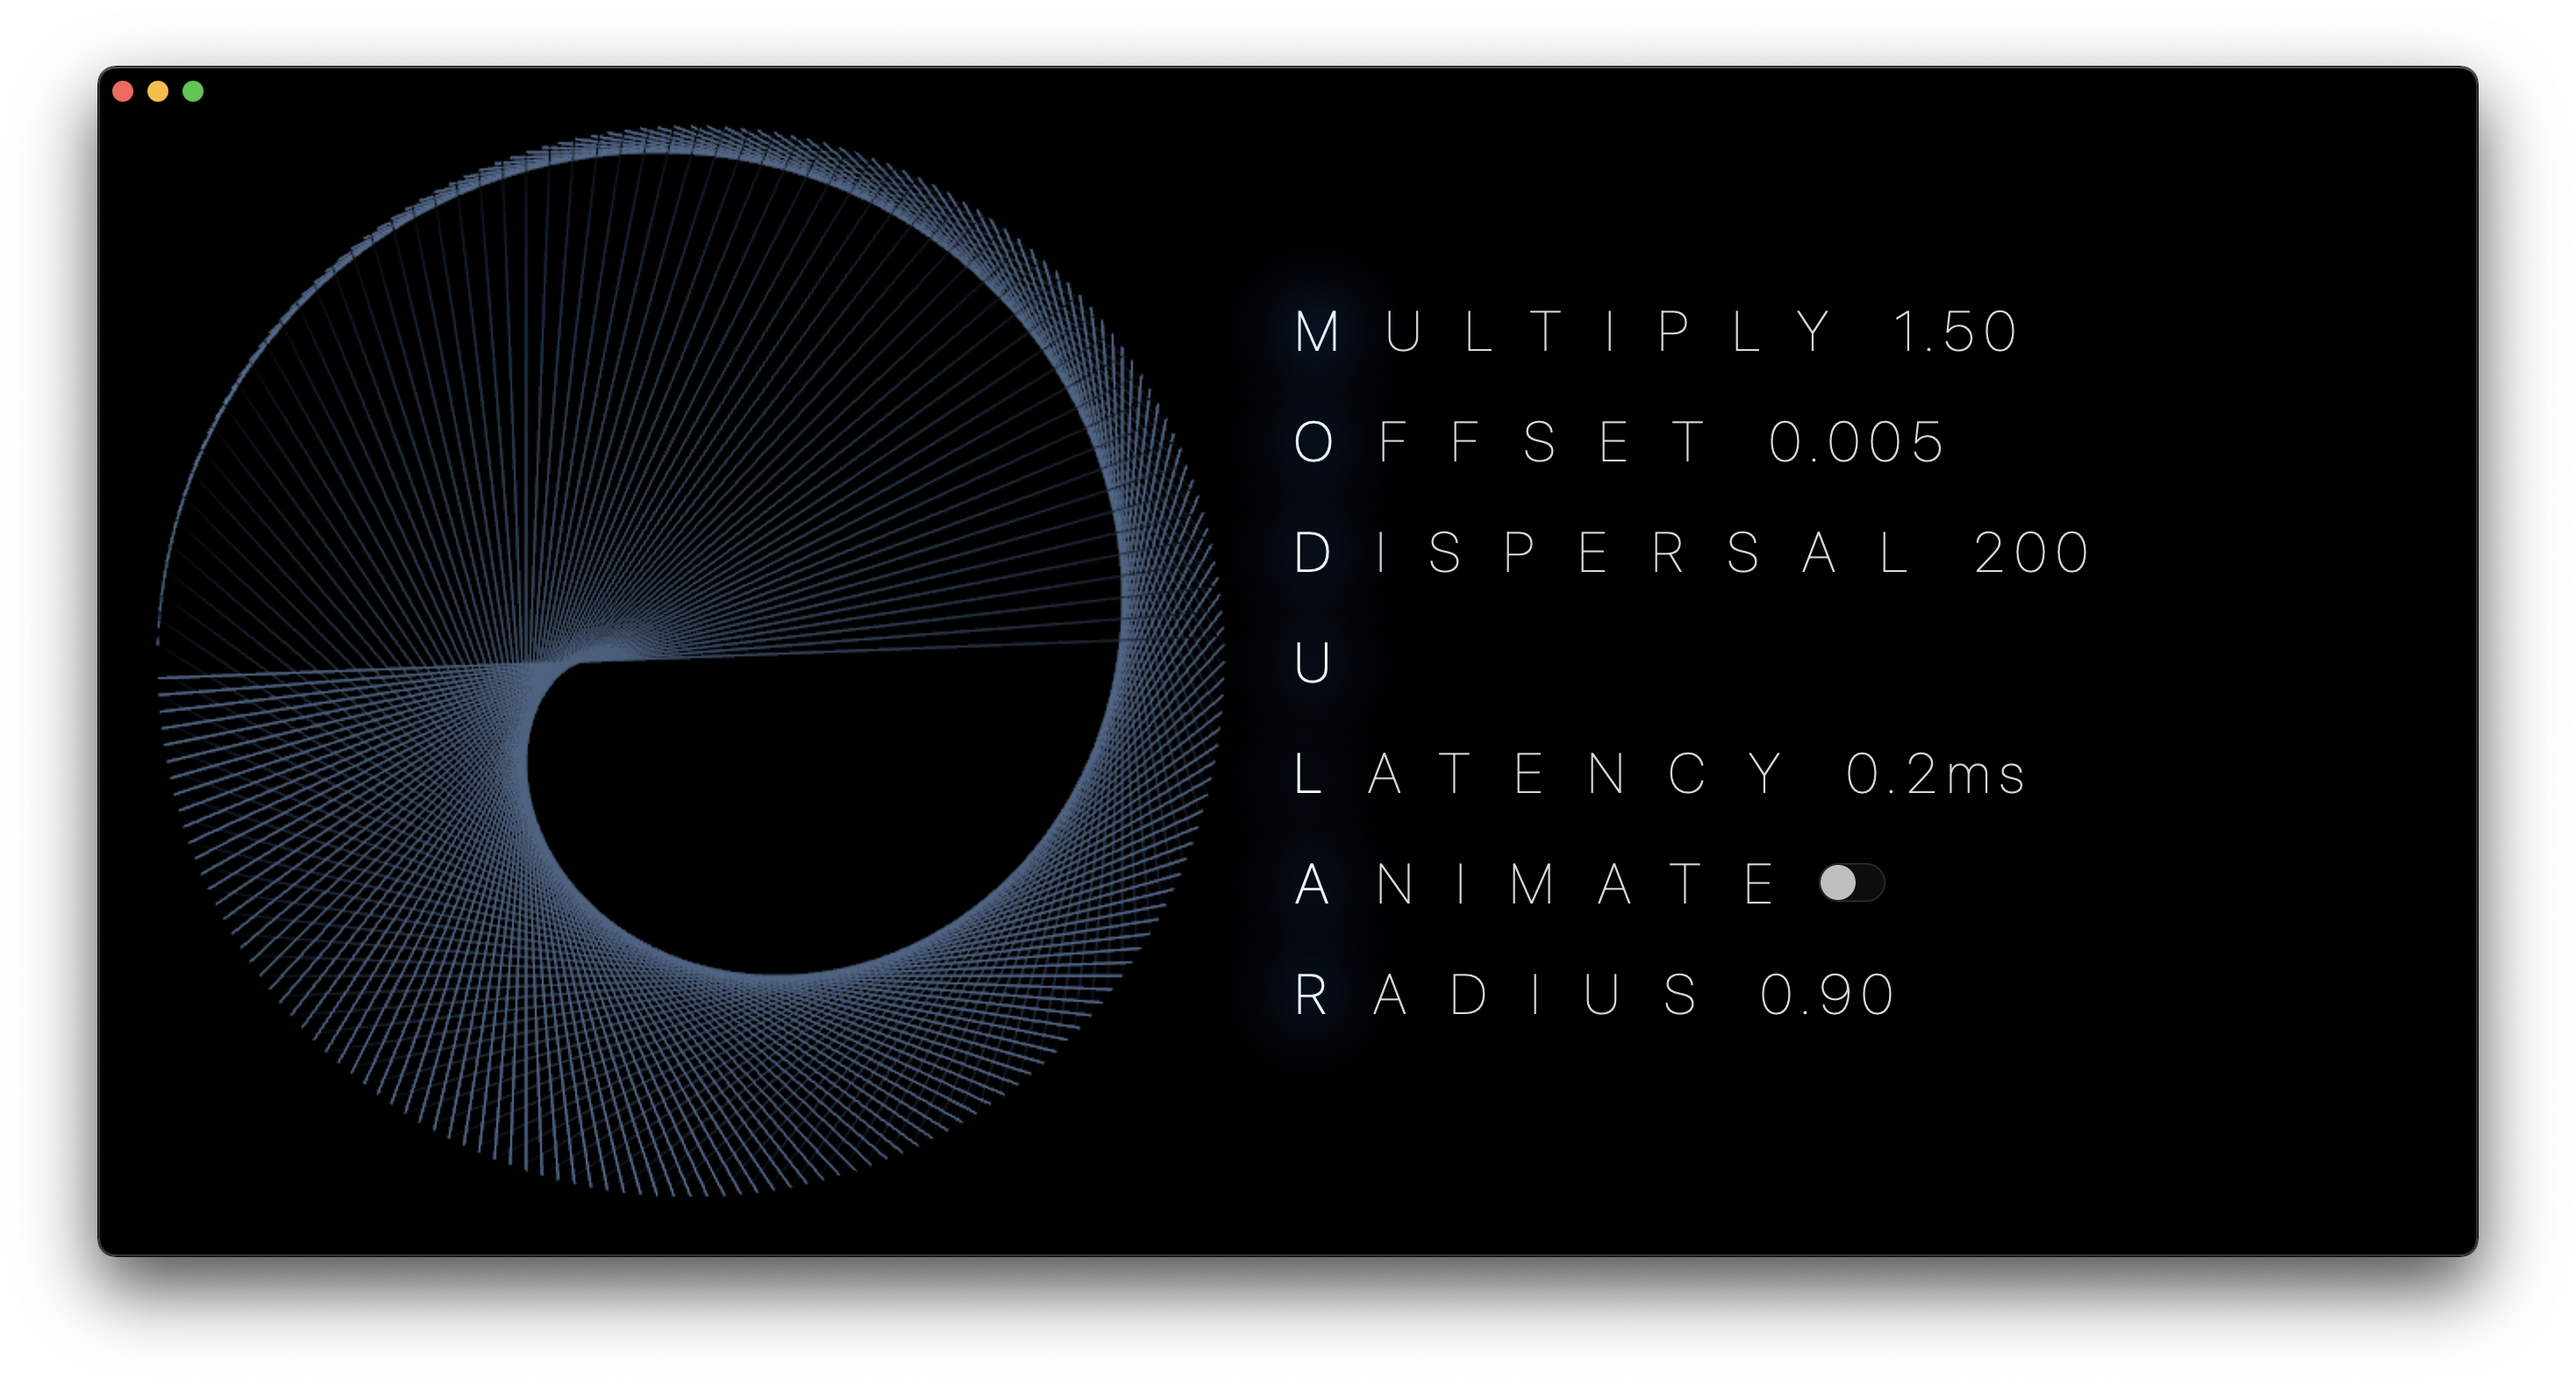
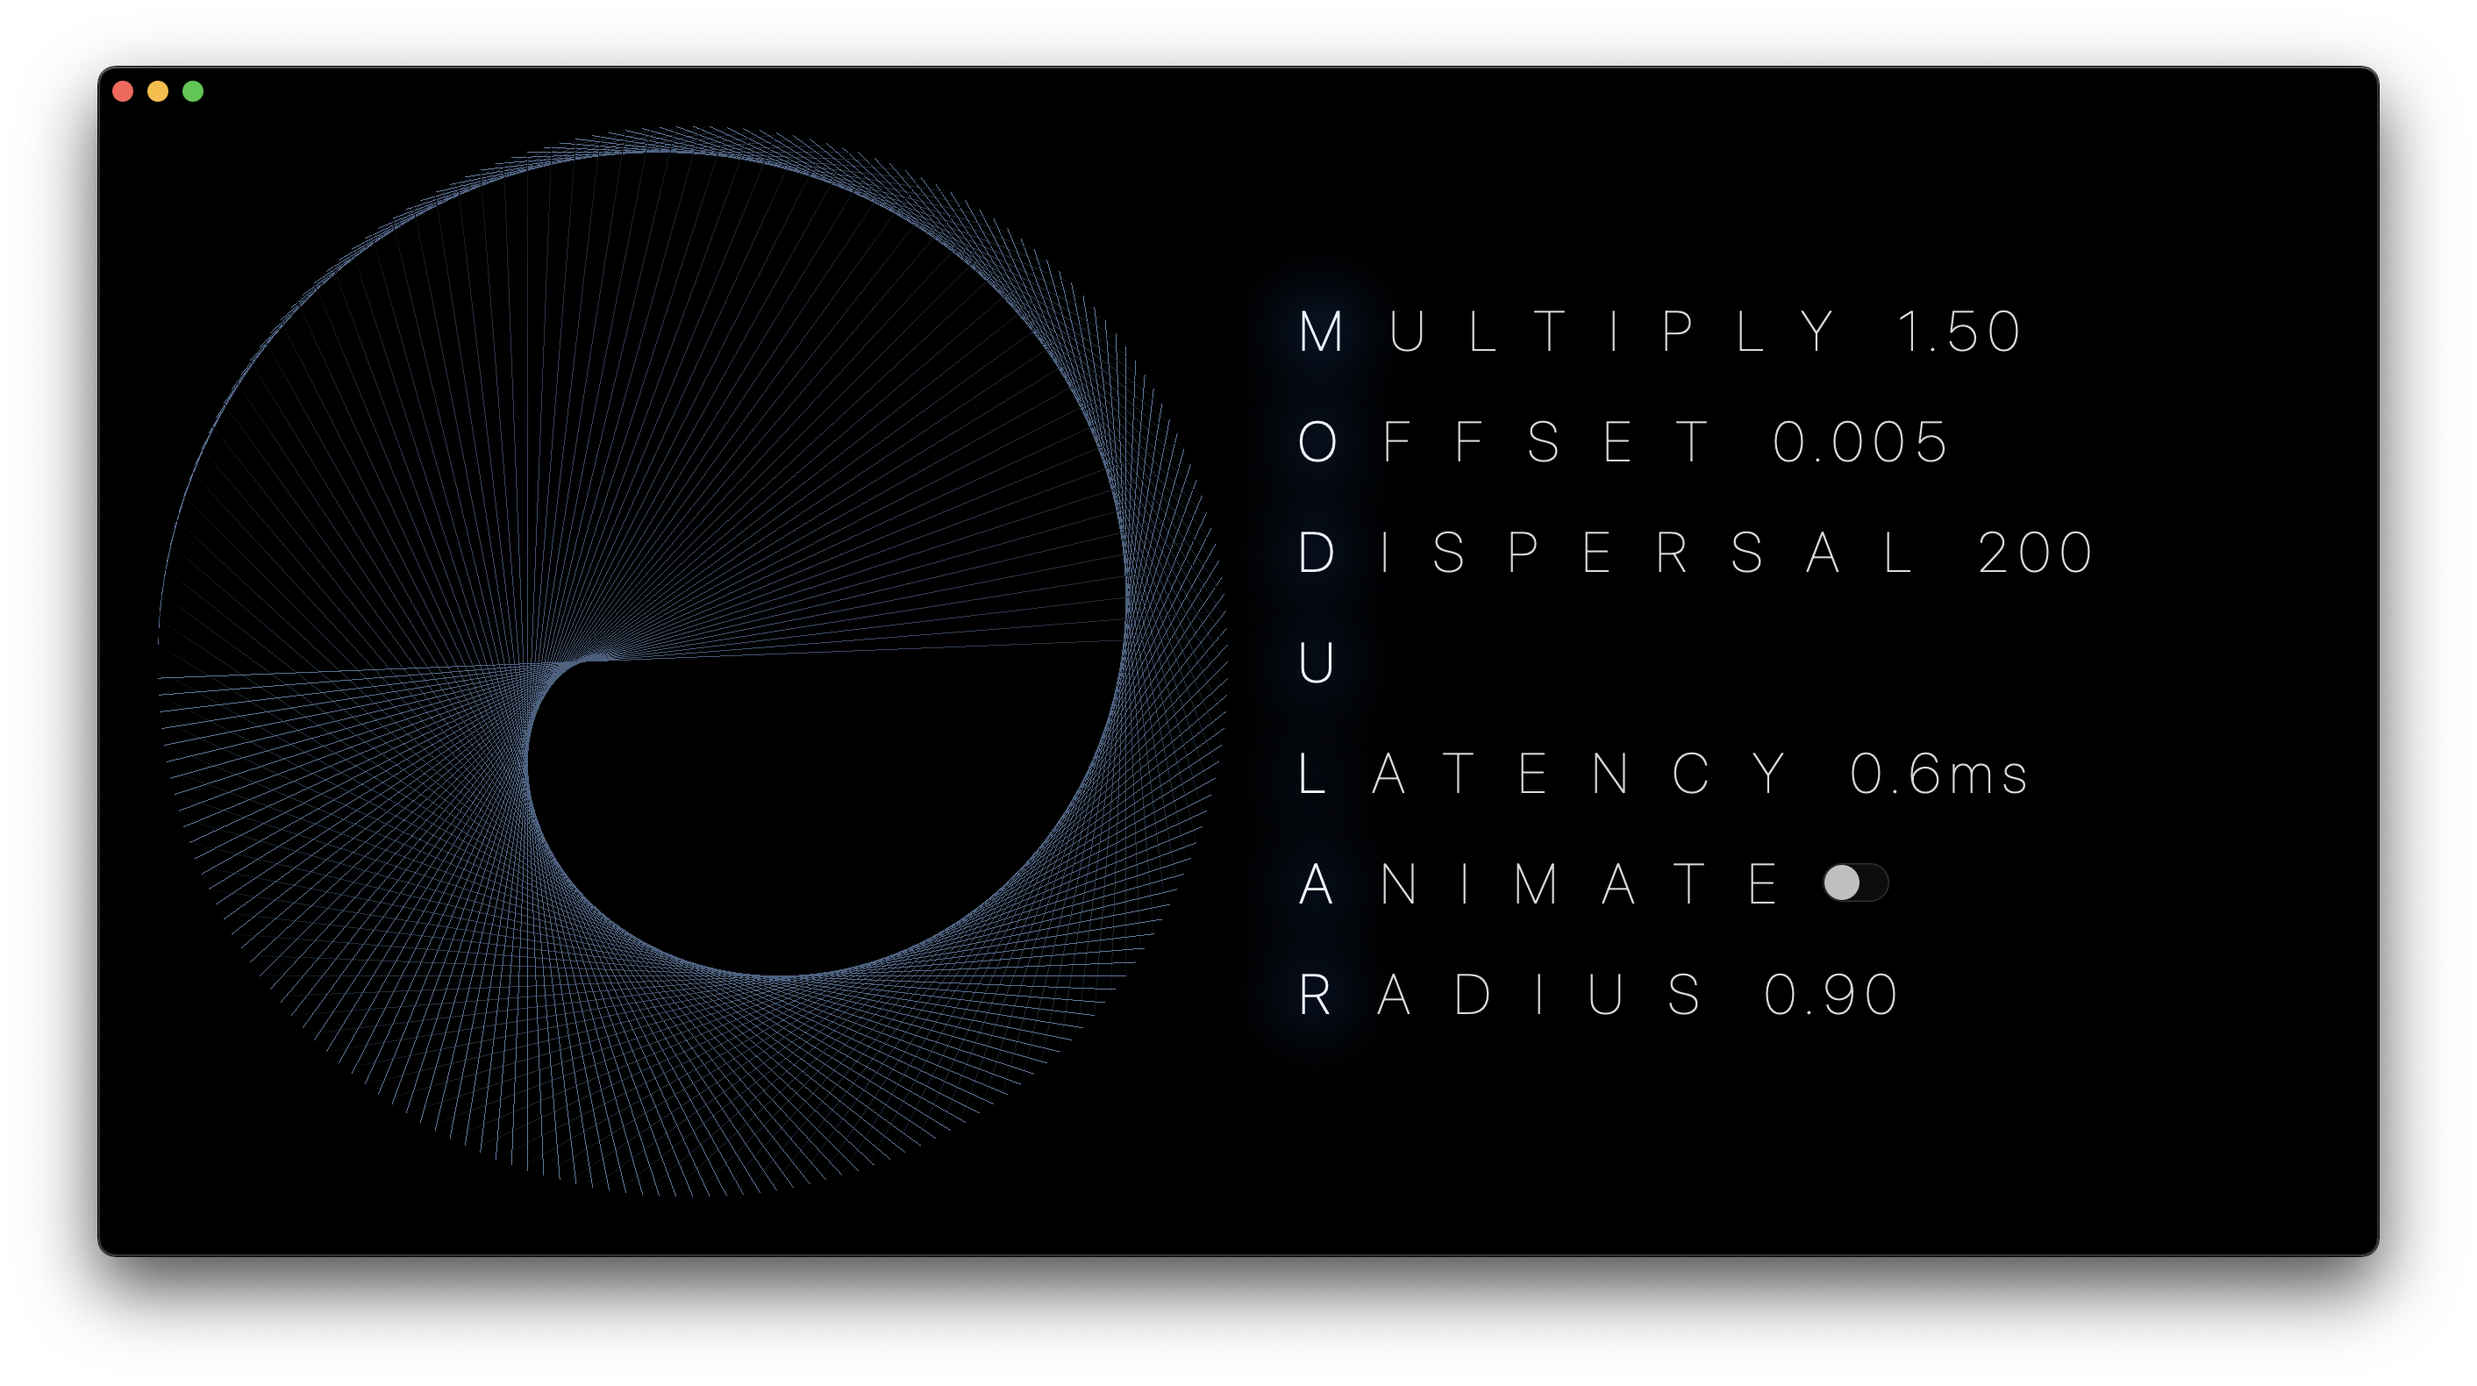
Switch to offscreen rendering. Fix reduced resolution issue.

diff --git a/Sources/Core/Sources/Renderer/VisualiserRenderer.swift b/Sources/Core/Sources/Renderer/VisualiserRenderer.swift
@@ -17,9 +17,12 @@ public class VisualiserRenderer: Renderer {
     var pointsBuffer: ManagedBuffer<simd_float2>
     var linesBuffer: ManagedBuffer<simd_float4>
     
-    let computePointsPSO: MTLComputePipelineState
+    let offscreenRenderTexture: MTLTexture
+    let offscreenRenderPD: MTLRenderPassDescriptor
+    let offscreenRenderPSO: MTLRenderPipelineState
+    
     let computeLinesPSO: MTLComputePipelineState
-    let renderPassPSO: MTLRenderPipelineState
+    let computePointsPSO: MTLComputePipelineState
     
     private var M: Float!
     private var linesValid: Bool = true
@@ -35,13 +38,24 @@ public class VisualiserRenderer: Renderer {
         }
     }
     
+    public func getDrawable() -> MTLTexture {
+        return self.offscreenRenderTexture
+    }
+    
+    public func getFunction(_ name: String) -> MTLFunction? {
+        if let function = library.getFunction(name: name) {
+            return function
+        }
+        return nil
+    }
+    
     public init(with device: MTLDevice, _ data: UIDataObject) {
         self.device = device
         self.data = data
         self.library = Library(with: device,
                                functions: ["computePointsFunction", "computeLinesFunction",
-                                           "fragmentFunction",
-                                           "linesVertexFunction"])
+                                           "fragmentFunction", "quadFragmentFunction",
+                                           "linesVertexFunction", "quadVertexFunction"])
         
         let minimumSize: UInt = 200
         self.pointsBuffer = ManagedBuffer(with: device, count: data.pointsCount, minimum: minimumSize, label: "PointsBuffer")
@@ -56,15 +70,27 @@ public class VisualiserRenderer: Renderer {
         do {
             computePointsPSO = try device.makeComputePipelineState(function: library.getFunction(name: "computePointsFunction")!)
             computeLinesPSO = try device.makeComputePipelineState(function: library.getFunction(name: "computeLinesFunction")!)
-            renderPassPSO = try device.makeRenderPipelineState(descriptor: renderPipelineDescriptor)
+            offscreenRenderPSO = try device.makeRenderPipelineState(descriptor: renderPipelineDescriptor)
         } catch {
             fatalError("[Metal] Error creating PSO.")
         }
         
+        self.offscreenRenderTexture = TextureManager.getTexture(with: device,
+                                                                      format: .bgra8Unorm_srgb,
+                                                                      sizeWH: (Int(data.width / 2.0 + 28) * 2,
+                                                                               Int(data.height + 28) * 2),
+                                                                      type: .renderTarget)!
+        
+        self.offscreenRenderPD = MTLRenderPassDescriptor()
+        self.offscreenRenderPD.colorAttachments[0].texture = self.offscreenRenderTexture
+        self.offscreenRenderPD.colorAttachments[0].loadAction = .clear
+        self.offscreenRenderPD.colorAttachments[0].clearColor = MTLClearColor(red: 0, green: 0, blue: 0, alpha: 1)
+        self.offscreenRenderPD.colorAttachments[0].storeAction = .store
+        
         self.currentMultiplier = data.multiplier
     }
 
-    public func draw(with device: MTLDevice, _ commandBuffer: MTLCommandBuffer, _ viewRPD: MTLRenderPassDescriptor) {
+    public func draw(with device: MTLDevice, _ commandBuffer: MTLCommandBuffer) {
         let pointsCount = simd_uint1(data.pointsCount)
         self.currentMultiplier = data.multiplier
         
@@ -86,9 +112,9 @@ public class VisualiserRenderer: Renderer {
                                   multiplier: self.currentMultiplier)
         }
         
-        let renderEncoder = commandBuffer.makeRenderCommandEncoder(descriptor: viewRPD)!
+        let renderEncoder = commandBuffer.makeRenderCommandEncoder(descriptor: self.offscreenRenderPD)!
         
-        renderEncoder.setRenderPipelineState(renderPassPSO)
+        renderEncoder.setRenderPipelineState(offscreenRenderPSO)
         renderEncoder.setVertexBuffer(linesBuffer.contents(), offset: 0, index: 0)
         renderEncoder.drawPrimitives(type: .line, vertexStart: 0, vertexCount: Int(pointsCount*2))
         renderEncoder.endEncoding()

diff --git a/Sources/App/Models/Coordinator.swift b/Sources/App/Models/Coordinator.swift
@@ -16,6 +16,9 @@ class Coordinator: NSObject, MTKViewDelegate {
     
     var parent: MetalView
     
+    let quadVertexBuffer: MTLBuffer
+    let quadRenderPSO: MTLRenderPipelineState
+    
     var dataObject: UIDataObject
     var renderer: VisualiserRenderer?
     
@@ -33,6 +36,27 @@ class Coordinator: NSObject, MTKViewDelegate {
         self.queue = queue
         
         renderer = VisualiserRenderer(with: self.device, self.dataObject)
+        
+        let quadVertexData: [simd_float4] = [
+            .init(x: -1.0, y: 1.0, z: 0.0, w: 0.0),
+            .init(x: -1.0, y: -1.0, z: 0.0, w: 1.0),
+            .init(x: 1.0, y: -1.0, z: 1.0, w: 1.0),
+            .init(x: -1.0, y: 1.0, z: 0.0, w: 0.0),
+            .init(x: 1.0, y: -1.0, z: 1.0, w: 1.0),
+            .init(x: 1.0, y: 1.0, z: 1.0, w: 0.0),
+        ]
+        
+        self.quadVertexBuffer = device.makeBuffer(bytes: quadVertexData,
+                                              length: MemoryLayout<simd_float4>.stride * quadVertexData.count)!
+        
+        let renderPipelineDescriptor = MTLRenderPipelineDescriptor()
+        renderPipelineDescriptor.vertexFunction = renderer?.getFunction("quadVertexFunction")
+        renderPipelineDescriptor.fragmentFunction = renderer?.getFunction("quadFragmentFunction")
+        renderPipelineDescriptor.colorAttachments[0].pixelFormat = MTLPixelFormat.bgra8Unorm_srgb
+        renderPipelineDescriptor.sampleCount = data.sampleCount
+        
+        self.quadRenderPSO = try! device.makeRenderPipelineState(descriptor: renderPipelineDescriptor)
+        
         super.init()
     }
     
@@ -58,7 +82,16 @@ class Coordinator: NSObject, MTKViewDelegate {
             }
         }
         
-        renderer?.draw(with: device, commandBuffer, view.currentRenderPassDescriptor!)
+        renderer?.draw(with: device, commandBuffer)
+        
+        let renderDesc = view.currentRenderPassDescriptor!
+        let renderEncoder = commandBuffer.makeRenderCommandEncoder(descriptor: renderDesc)!
+        
+        renderEncoder.setRenderPipelineState(self.quadRenderPSO)
+        renderEncoder.setVertexBuffer(self.quadVertexBuffer, offset: 0, index: 0)
+        renderEncoder.setFragmentTexture(renderer?.getDrawable(), index: 0)
+        renderEncoder.drawPrimitives(type: .triangle, vertexStart: 0, vertexCount: 6)
+        renderEncoder.endEncoding()
         
         commandBuffer.present(drawable)
         commandBuffer.commit()
@@ -69,18 +102,13 @@ class Coordinator: NSObject, MTKViewDelegate {
             dataObject.pointsCount += 1
         }
         else if Keyboard.IsKeyPressed(.downArrow) {
-            if dataObject.pointsCount > 1 {
+            if dataObject.pointsCount > 2 {
                 dataObject.pointsCount -= 1
             }
         }
         
         if Keyboard.IsKeyPressed(.leftArrow) {
-            if (dataObject.multiplier - 0.1) >= 0.0 {
-                dataObject.multiplier -= 0.1
-            }
-            else {
-                dataObject.multiplier = 0.0
-            }
+            dataObject.multiplier -= 0.1
         }
         else if Keyboard.IsKeyPressed(.rightArrow) {
             dataObject.multiplier += 0.1

diff --git a/Sources/App/Views/Interface/Elements/MenuTextView.swift b/Sources/App/Views/Interface/Elements/MenuTextView.swift
@@ -26,19 +26,8 @@ struct MenuTextView: View {
     
     var body: some View {
         HStack(alignment: .center , spacing: 0) {
-            ZStack {
-                Text(firstChar)
-                    .font(.system(size: self.size))
-                    .fontWeight(.thin)
-                    .tracking(self.tracking)
-                    .foregroundColor(.white)
-                Text(firstChar)
-                    .font(.system(size: self.size))
-                    .fontWeight(.bold)
-                    .tracking(self.tracking)
-                    .foregroundStyle(.blue)
-                    .blur(radius: 20.0)
-            }
+            
+            firstCharacterBody
             
             Text(remainder)
                 .font(.system(size: self.size))
@@ -63,6 +52,22 @@ struct MenuTextView: View {
             
             Spacer()
                 
+        }
+    }
+    
+    var firstCharacterBody: some View {
+        ZStack {
+            Text(firstChar)
+                .font(.system(size: self.size))
+                .fontWeight(.thin)
+                .tracking(self.tracking)
+                .foregroundColor(.white)
+            Text(firstChar)
+                .font(.system(size: self.size))
+                .fontWeight(.bold)
+                .tracking(self.tracking)
+                .foregroundStyle(.blue)
+                .blur(radius: 20.0)
         }
     }
 }

diff --git a/Sources/App/Views/Metal/MetalView.swift b/Sources/App/Views/Metal/MetalView.swift
@@ -27,13 +27,12 @@ struct MetalView: NSViewRepresentable {
         
         metalView.framebufferOnly = true
         metalView.enableSetNeedsDisplay = false
-        metalView.sampleCount = data.sampleCount
+        metalView.sampleCount = 1
         metalView.preferredFramesPerSecond = data.targetFPS
         metalView.colorPixelFormat = .bgra8Unorm_srgb
         
-        let W = Int(data.width / 2.0)
-        let H = Int(data.height)
-        metalView.setFrameSize(NSSize(width: W, height: H))
+        let W = Int(data.width/2) + 28
+        let H = Int(data.height) + 28
         metalView.drawableSize = CGSize(width: W, height: H)
    
         metalView.clearColor = MTLClearColorMake(0.0, 0.0, 0.0, 1.0)

diff --git a/Sources/Core/Sources/Data/UIDataObject.swift b/Sources/Core/Sources/Data/UIDataObject.swift
@@ -13,13 +13,13 @@ public class UIDataObject: ObservableObject {
     
     @Published public var frametime: Double = 0
     @Published public var pointsCount: UInt = 200
-    @Published public var multiplier: Float = 1.5
+    @Published public var multiplier: Float = 2
     @Published public var animation: Bool = false
    
-    var resolution: (CGFloat, CGFloat) = (1356, 650)
+    var resolution: (CGFloat, CGFloat) = (1300, 650)
     
     public let targetFPS: Int = 60
-    public let sampleCount: Int = 4
+    public let sampleCount: Int = 1
     public var circleRadius: Float = 0.9
     public let animationStep: Float = 0.005
     

diff --git a/Sources/App/Views/MainView.swift b/Sources/App/Views/MainView.swift
@@ -19,7 +19,7 @@ struct MainView: View {
             
             HStack(alignment: .center, spacing: 5) {
                 MetalView()
-                    .frame(maxWidth: .infinity)
+                    .frame(width: (data.width / 2.0) + 28, height: data.height+28)
                 UserInterfaceView()
                     .frame(maxWidth: .infinity)
             }

diff --git a/Sources/Core/Sources/Utilities/TextureManager.swift b/Sources/Core/Sources/Utilities/TextureManager.swift
@@ -30,6 +30,7 @@ public enum TextureManager {
         switch type {
             case .renderTarget:
                 texDescriptor.usage = [.renderTarget, .shaderRead]
+                texDescriptor.storageMode = .private
             case .readWrite:
                 texDescriptor.usage = [.shaderRead, .shaderWrite]
             case .writeOnly:

diff --git a/Sources/Core/Sources/Renderer/Renderer.swift b/Sources/Core/Sources/Renderer/Renderer.swift
@@ -10,5 +10,5 @@ import MetalKit
 
 protocol Renderer {
     var device: MTLDevice { get set }
-    func draw(with device: MTLDevice, _ commandBuffer: MTLCommandBuffer, _ viewRPD: MTLRenderPassDescriptor)
+    func draw(with device: MTLDevice, _ commandBuffer: MTLCommandBuffer)
 }
